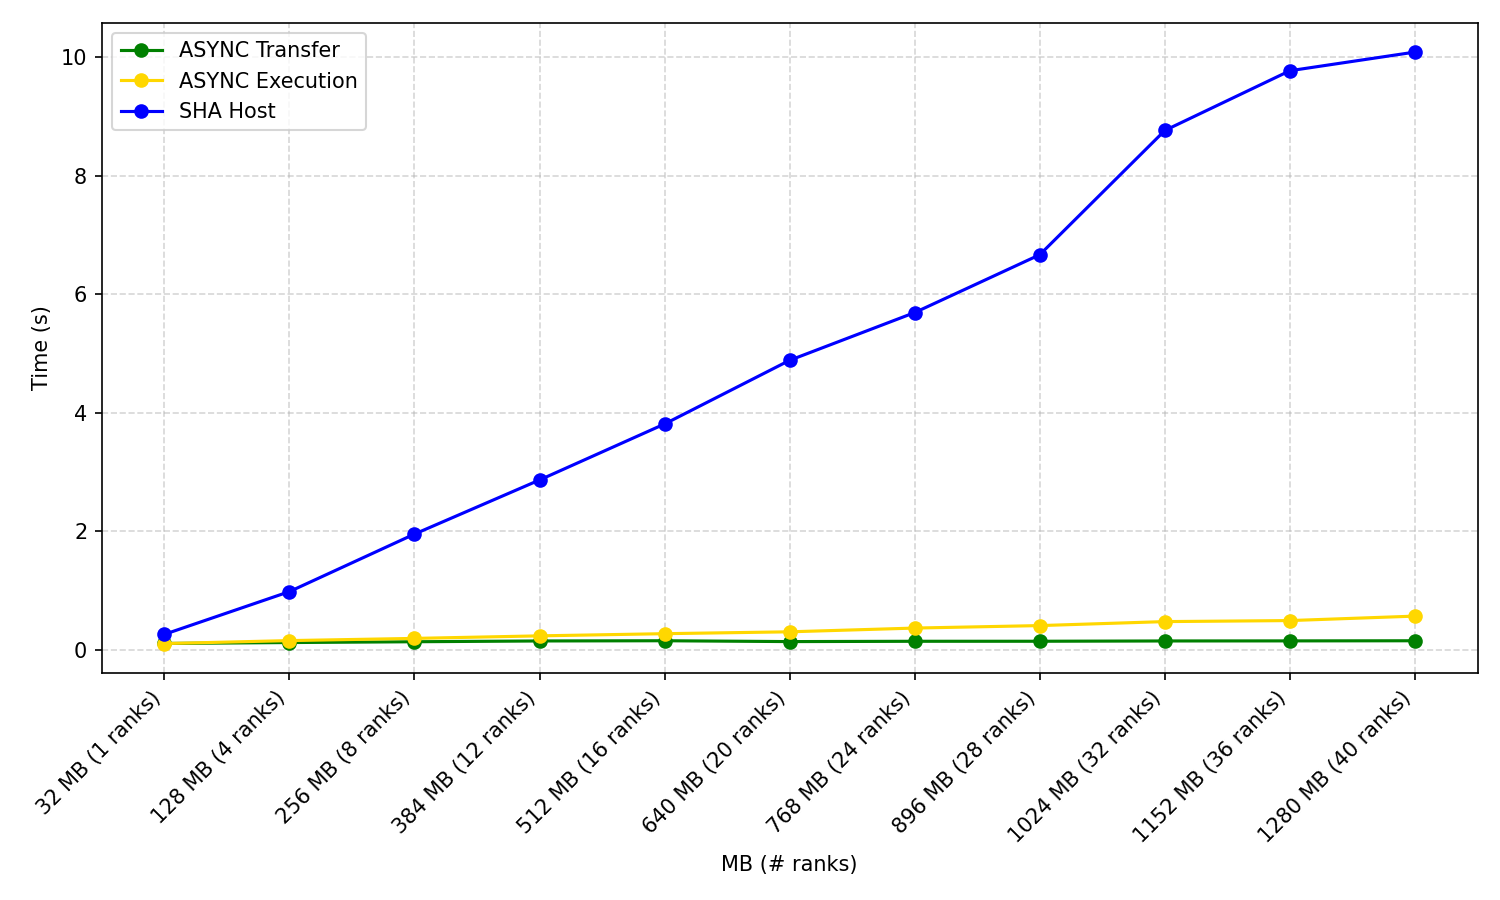
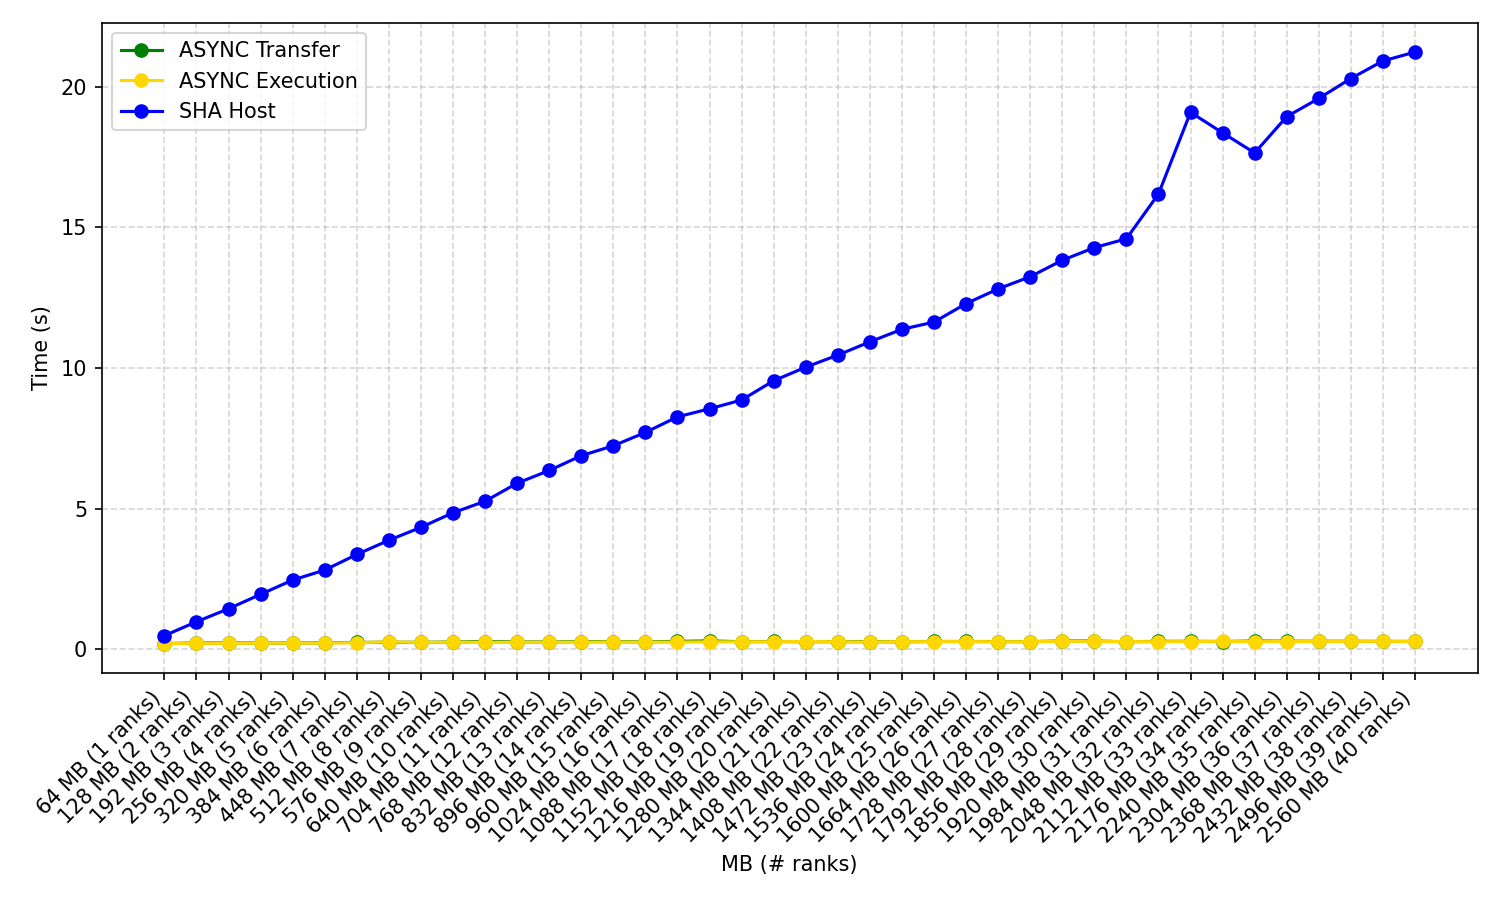
Updated async execution

diff --git a/ranks_scaling_sha256.c b/ranks_scaling_sha256.c
@@ -200,7 +200,8 @@ int main(void) {
             DPU_ASSERT(dpu_prepare_xfer(dpu_set, buffer_plaintext + dpu_buffer_offset));
             dpu_buffer_offset += BUFFER_SIZE_DPU;
         }
-        DPU_ASSERT(dpu_push_xfer(rank, DPU_XFER_TO_DPU, "msgs", 0, BUFFER_SIZE_DPU, DPU_XFER_DEFAULT));
+        //DPU_ASSERT(dpu_push_xfer(rank, DPU_XFER_TO_DPU, "msgs", 0, BUFFER_SIZE_DPU, DPU_XFER_DEFAULT));
+        DPU_ASSERT(dpu_push_xfer(rank, DPU_XFER_TO_DPU, "msgs", 0, BUFFER_SIZE_DPU, DPU_XFER_ASYNC));
         DPU_ASSERT(dpu_launch(rank, DPU_ASYNCHRONOUS));
     }
 
